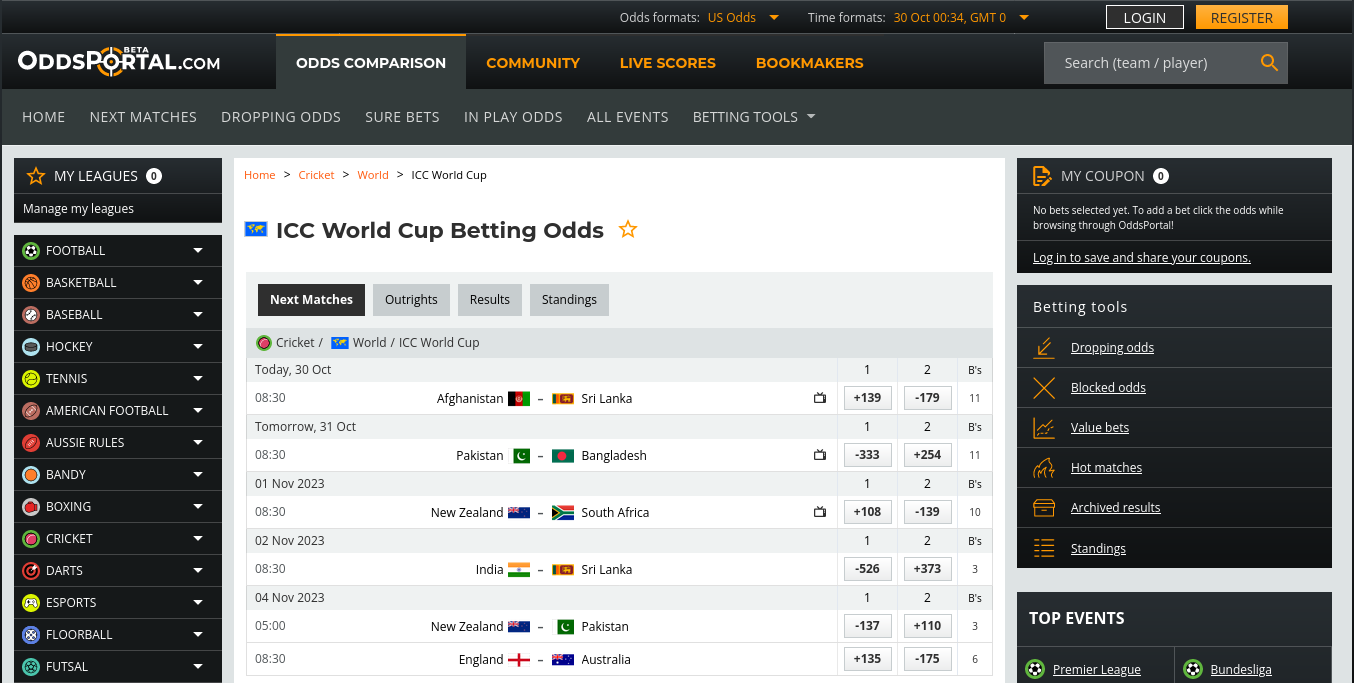
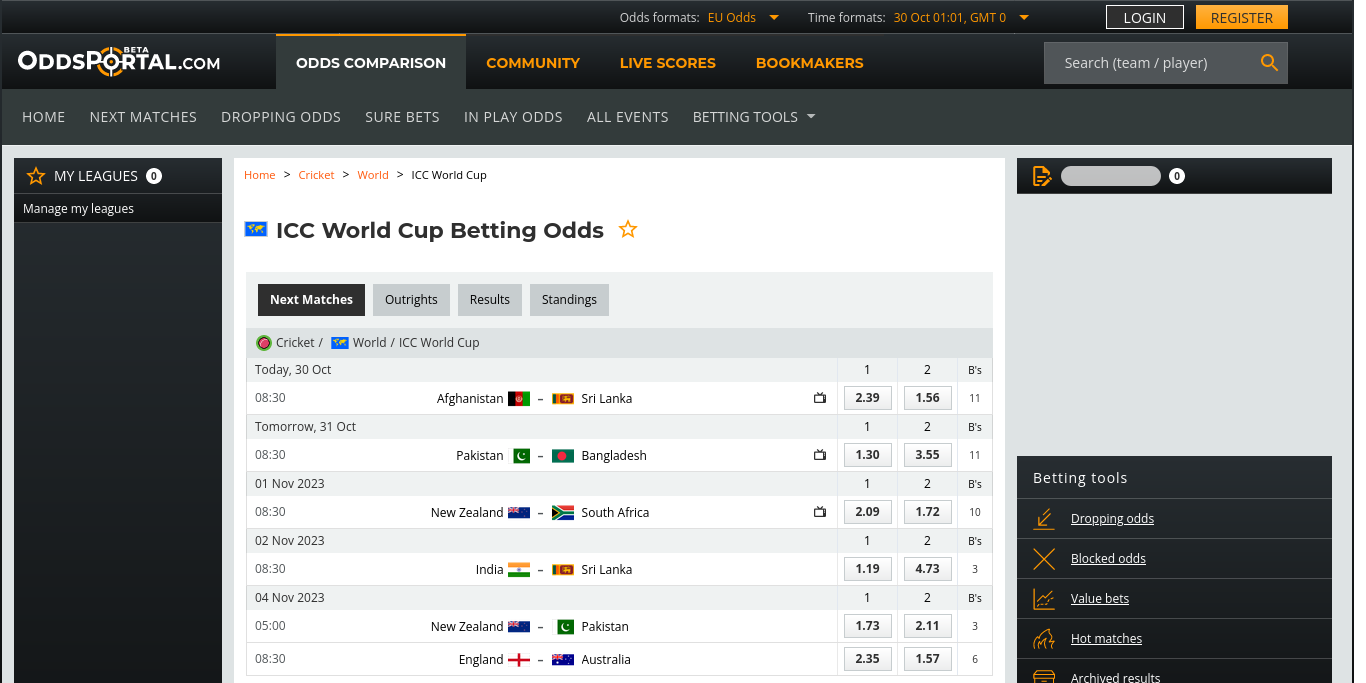
Update Data (Cron) Mon Oct 30 01:02:09 UTC 2023

diff --git a/src/nonview/data/TEAM1_ID_TO_TEAM2_ID_TO_ODDS_PAIR.js b/src/nonview/data/TEAM1_ID_TO_TEAM2_ID_TO_ODDS_PAIR.js
@@ -1,6 +1,6 @@
 // Auto Generated by UpdateTeam1IDToTeam2IDToOddsPair
 // https://www.oddsportal.com/cricket/world/icc-world-cup/
-// 2023-10-30 06:04:07 +0000
+// 2023-10-30 06:32:01 +0000
 
 import { TEAM } from "../core/Team.js";
 
@@ -9,16 +9,16 @@ export const TEAM1_ID_TO_TEAM2_ID_TO_ODDS_PAIR = {
     [TEAM.AFG.id]: [1.56, 2.39],
   },
   [TEAM.PAK.id]: {
-    [TEAM.BGD.id]: [1.30, 3.54],
+    [TEAM.BGD.id]: [1.30, 3.55],
   },
   [TEAM.ZAF.id]: {
-    [TEAM.NZL.id]: [1.72, 2.08],
+    [TEAM.NZL.id]: [1.72, 2.09],
   },
   [TEAM.IND.id]: {
     [TEAM.LKA.id]: [1.19, 4.73],
   },
   [TEAM.NZL.id]: {
-    [TEAM.PAK.id]: [1.73, 2.10],
+    [TEAM.PAK.id]: [1.73, 2.11],
   },
   [TEAM.AUS.id]: {
     [TEAM.ENG.id]: [1.57, 2.35],

diff --git a/src/nonview/constants/VERSION.js b/src/nonview/constants/VERSION.js
@@ -1,4 +1,4 @@
 // Auto-generated by javascript_version.py
-export const VERSION_UT = 1698626054;
+export const VERSION_UT = 1698627729;
 export const VERSION_DATETIME = new Date(VERSION_UT * 1_000);
 export const LAST_COMMIT_MESSAGE = "Updated 📊Data";

diff --git a/src/nonview/data/TEAM_ID_TO_P_WINNER.js b/src/nonview/data/TEAM_ID_TO_P_WINNER.js
@@ -1,6 +1,6 @@
 // Auto Generated by UpdateTeamIDToPWinner
 // https://www.oddsportal.com/cricket/world/icc-world-cup/outrights/
-// 2023-10-30 06:04:14 +0000
+// 2023-10-30 06:32:09 +0000
 
 export const TEAM_ID_TO_P_WINNER = {
   IND: 0.418274, // 42%

diff --git a/src/nonview/data/ODI_ID_TO_WINNER.js b/src/nonview/data/ODI_ID_TO_WINNER.js
@@ -1,6 +1,6 @@
 // Auto Generated by UpdateODIIDToWinner
 // https://www.cricbuzz.com/cricket-series/6732/icc-cricket-world-cup-2023/matches
-// 2023-10-30 06:03:50 +0000
+// 2023-10-30 06:31:42 +0000
 
 import { TEAM } from "../core/Team.js";
 

diff --git a/src/nonview/data/POINTS_TABLE.js b/src/nonview/data/POINTS_TABLE.js
@@ -1,6 +1,6 @@
 // Auto Generated by UpdatePointsTable
 // https://www.cricketworldcup.com/standings
-// 2023-10-30 06:04:00 +0000
+// 2023-10-30 06:31:52 +0000
 
 import { TEAM } from "../core/Team.js";
 
